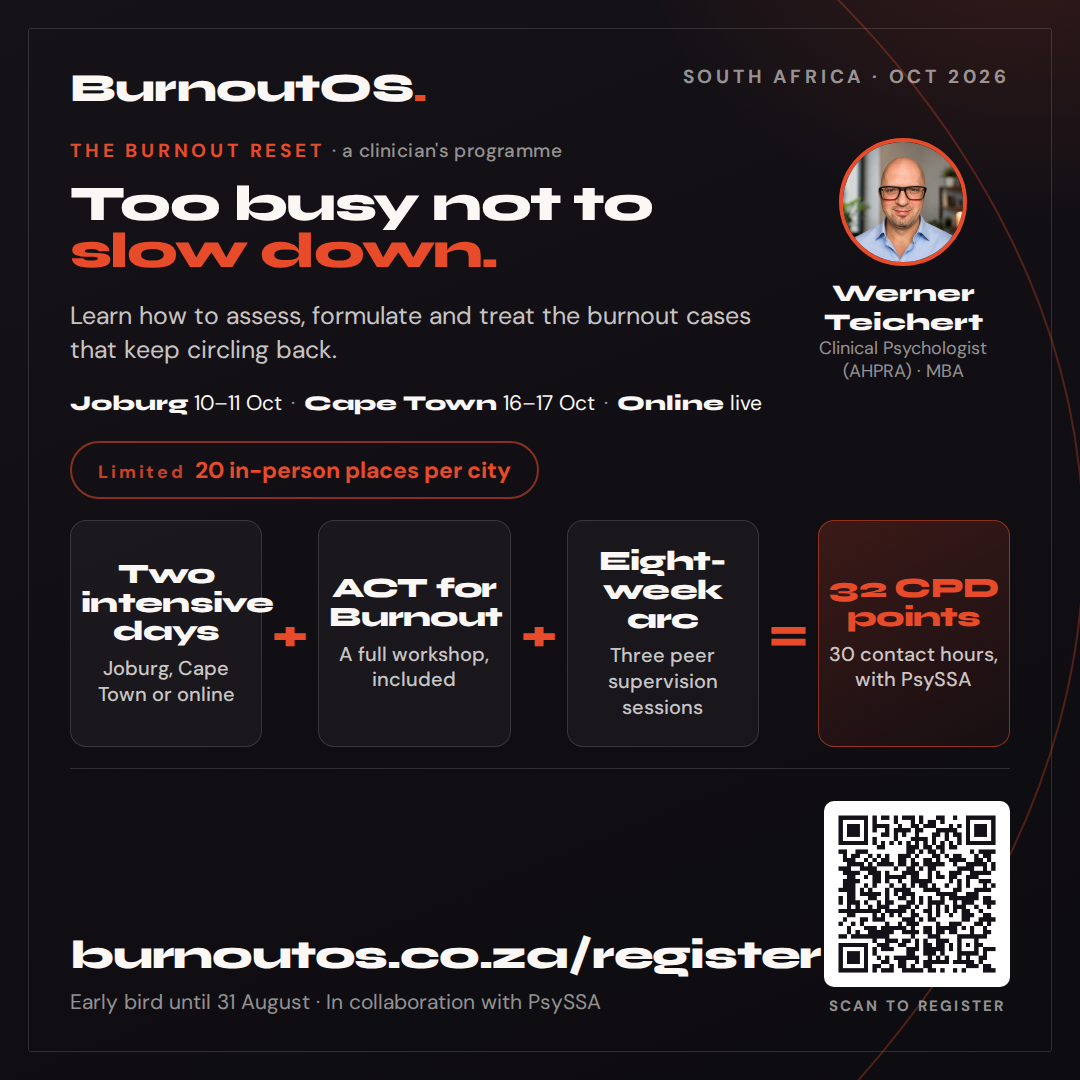
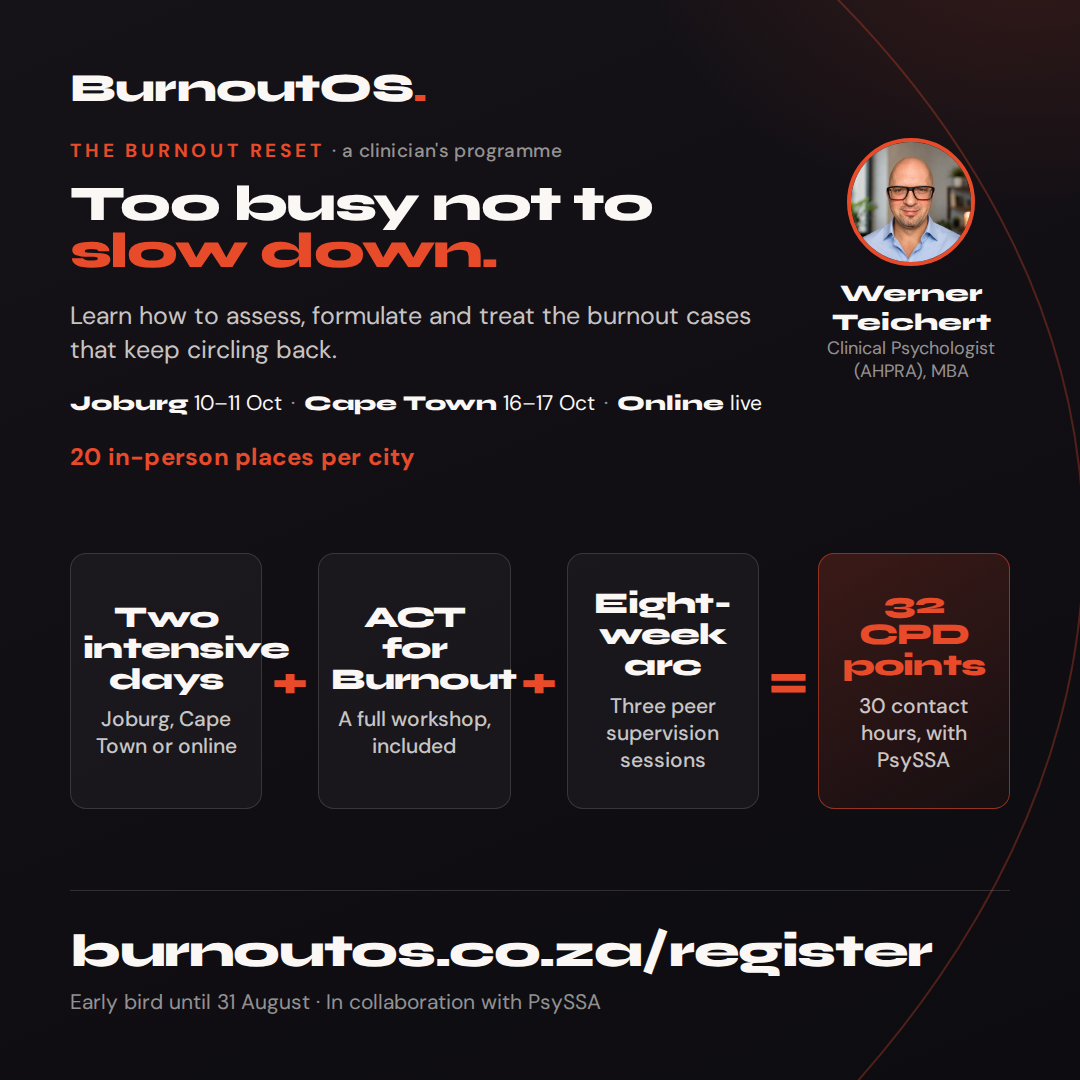
Declutter the SA tour posters and remove the QR codes
The QR was solving attribution on surfaces where it cannot be scanned.
These posts are consumed on the same phone that would need to scan them,
so the code was decoration occupying the second-largest block on the
canvas. Attribution moves to a tracked link in the post caption, which is
tappable and therefore converts better than a QR the reader cannot use.

Also removed: the top-right location eyebrow, which duplicated the dates
line; the inner rule border, which was a third framing layer over the arc
and the card borders; and the border on the scarcity pill, which was a
bordered object sitting directly above four more bordered objects.

Value stack up to 23.6 percent of the square canvas with 30px labels.
Headline and stack now carry the poster between them.

diff --git a/src/posters/build_posters.py b/src/posters/build_posters.py
@@ -36,10 +36,10 @@ h1 em{color:#E84B2A;font-style:normal;}
 .sq .dates{font-size:21px;white-space:nowrap;}
 .dates b{font-family:'Syne';font-variation-settings:'wght' 800;}
 .dates i{color:var(--dim);font-style:normal;margin:0 9px;}
-.pill{align-self:flex-start;border:2px solid rgba(232,75,42,.55);border-radius:100px;color:#E84B2A;font-weight:700;}
-.sq .pill{font-size:23px;padding:12px 26px;} .ld .pill{font-size:19px;padding:9px 21px;}
-.pill s{text-decoration:none;letter-spacing:.16em;font-size:.78em;opacity:.85;margin-right:9px;}
-.headwrap{display:flex;flex-direction:column;align-items:center;text-align:center;z-index:3;}
+.scarce{color:#E84B2A;font-weight:700;letter-spacing:.01em;}
+.sq .scarce{font-size:24px;} .ld .scarce{font-size:20px;}
+.headwrap{display:flex;flex-direction:column;align-items:center;text-align:center;z-index:3;flex:0 0 auto;}
+.sq .headwrap{width:230px;} .ld .headwrap{width:200px;}
 .headwrap img{border-radius:50%;border:4px solid #E84B2A;object-fit:cover;}
 .sq .headwrap img{width:128px;height:128px;} .ld .headwrap img{width:92px;height:92px;}
 .hname{font-family:'Syne';font-variation-settings:'wght' 800;color:var(--fg);margin-top:13px;}
@@ -49,21 +49,20 @@ h1 em{color:#E84B2A;font-style:normal;}
 .spacer{flex:1;}
 .vs{display:flex;align-items:stretch;gap:10px;z-index:3;}
 .vsi{flex:1 1 0;min-width:0;hyphens:none;overflow-wrap:normal;border:1px solid var(--line);border-radius:16px;background:var(--cardbg);display:flex;flex-direction:column;justify-content:center;text-align:center;}
-.sq .vsi{padding:26px 10px;} .ld .vsi{padding:16px 10px;}
+.sq .vsi{padding:34px 12px;} .ld .vsi{padding:22px 10px;}
 .vsi.sum{border-color:rgba(232,75,42,.55);background:linear-gradient(150deg,rgba(232,75,42,.20),rgba(232,75,42,.04));}
 .vsm{font-family:'Syne';font-variation-settings:'wght' 800;letter-spacing:-.025em;line-height:1.03;color:var(--fg);}
-.sq .vsm{font-size:28px;} .ld .vsm{font-size:24px;}
+.sq .vsm{font-size:30px;} .ld .vsm{font-size:26px;}
 .vsi.sum .vsm{color:#E84B2A;}
 .vss{color:var(--mut);line-height:1.28;font-weight:500;}
-.sq .vss{font-size:20px;margin-top:10px;} .ld .vss{font-size:15px;margin-top:7px;}
+.sq .vss{font-size:21px;margin-top:12px;} .ld .vss{font-size:15px;margin-top:7px;}
 .vso{display:flex;align-items:center;justify-content:center;flex:0 0 34px;font-family:'Syne';font-variation-settings:'wght' 800;color:#E84B2A;}
 .sq .vso{font-size:46px;} .ld .vso{font-size:34px;}
-.foot{display:flex;justify-content:space-between;align-items:flex-end;gap:26px;z-index:3;border-top:1px solid var(--line);}
-.foot>div:first-child{min-width:0;}
-.qrw{flex-shrink:0;}
+.foot{z-index:3;border-top:1px solid var(--line);}
+
 .sq .foot{padding-top:32px;} .ld .foot{padding-top:22px;}
 .url{font-family:'Syne';font-variation-settings:'wght' 800;letter-spacing:-.03em;color:var(--fg);}
-.sq .url{font-size:40px;} .ld .url{font-size:32px;}
+.sq .url{font-size:46px;} .ld .url{font-size:32px;}
 .sub{color:var(--dim);margin-top:9px;}
 .sq .sub{font-size:21px;} .ld .sub{font-size:17px;}
 .qrw{text-align:center;}
@@ -94,15 +93,14 @@ def stack():
 
 
 HEAD = ('<div class="headwrap"><img src="' + HS + '"><div class="hname">Werner Teichert</div>'
-        '<div class="hcred">Clinical Psychologist<br>(AHPRA) &middot; MBA</div></div>')
+        '<div class="hcred">Clinical Psychologist (AHPRA), MBA</div></div>')
 
 
 def square(pid, theme, qr):
     return """
 <div class="p sq {th}" id="{pid}">
- <div class="rule"></div>
  {arc}
- <div class="top"><div class="wm">BurnoutOS<i>.</i></div><div class="loc">South Africa &middot; Oct 2026</div></div>
+ <div class="top"><div class="wm">BurnoutOS<i>.</i></div></div>
  <div style="height:26px"></div>
  <div style="display:flex;gap:34px;align-items:flex-start;z-index:3">
    <div style="flex:1">
@@ -117,13 +115,12 @@ def square(pid, theme, qr):
    {head}
  </div>
  <div style="height:24px"></div>
- <div class="pill"><s>Limited</s>20 in-person places per city</div>
+ <div class="scarce">20 in-person places per city</div>
  <div class="spacer"></div>
  {vs}
  <div class="spacer"></div>
  <div class="foot">
    <div><div class="url">burnoutos.co.za/register</div><div class="sub">Early bird until 31 August &middot; In collaboration with PsySSA</div></div>
-   <div class="qrw"><img src="{qr}"><div class="qrl">Scan to register</div></div>
  </div>
 </div>""".format(pid=pid, th=theme, qr=qr, head=HEAD, vs=stack(),
                  arc=arc(1080, 1080, "M 700 -120 C 1180 240, 1220 760, 760 1180"))
@@ -131,9 +128,8 @@ def square(pid, theme, qr):
 
 LD = """
 <div class="p ld dark" id="p-linkedin">
- <div class="rule"></div>
  {arc}
- <div class="top"><div class="wm">BurnoutOS<i>.</i></div><div class="loc">South Africa &middot; October 2026</div></div>
+ <div class="top"><div class="wm">BurnoutOS<i>.</i></div></div>
  <div style="height:18px"></div>
  <div style="display:flex;gap:32px;align-items:flex-start;z-index:3">
    <div style="flex:1">
@@ -147,13 +143,12 @@ LD = """
    {head}
  </div>
  <div style="height:16px"></div>
- <div class="pill"><s>Limited</s>20 in-person places per city</div>
+ <div class="scarce">20 in-person places per city</div>
  <div class="spacer"></div>
  {vs}
  <div class="spacer"></div>
  <div class="foot">
    <div><div class="url">burnoutos.co.za/register</div><div class="sub">Early bird until 31 August &middot; In collaboration with PsySSA</div></div>
-   <div class="qrw"><img src="{qr}"><div class="qrl">Scan to register</div></div>
  </div>
 </div>""".format(qr=QR["linkedin"], head=HEAD, vs=stack(),
                  arc=arc(1200, 627, "M 820 -120 C 1240 120, 1260 500, 880 700"))
